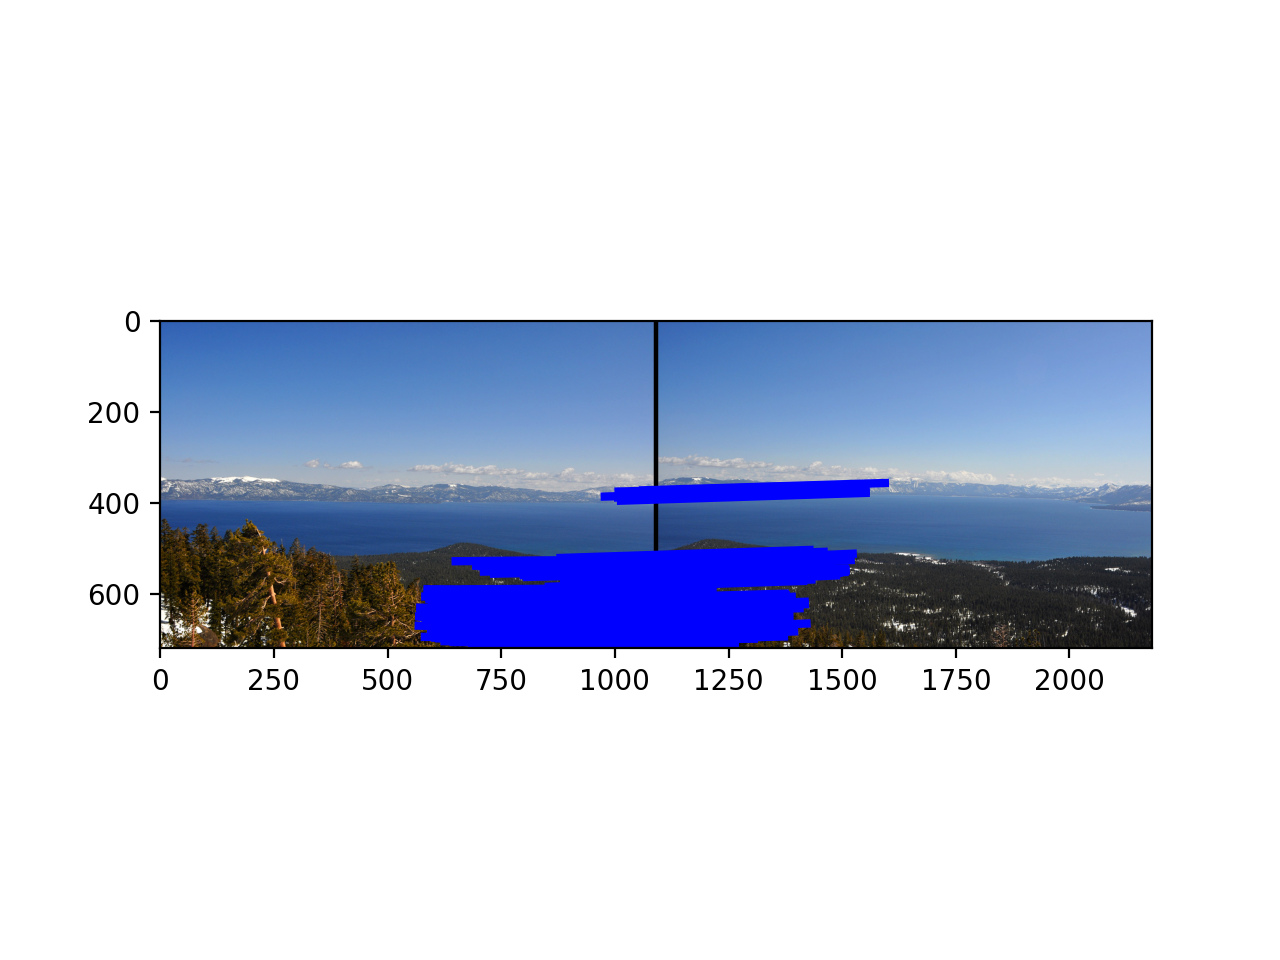
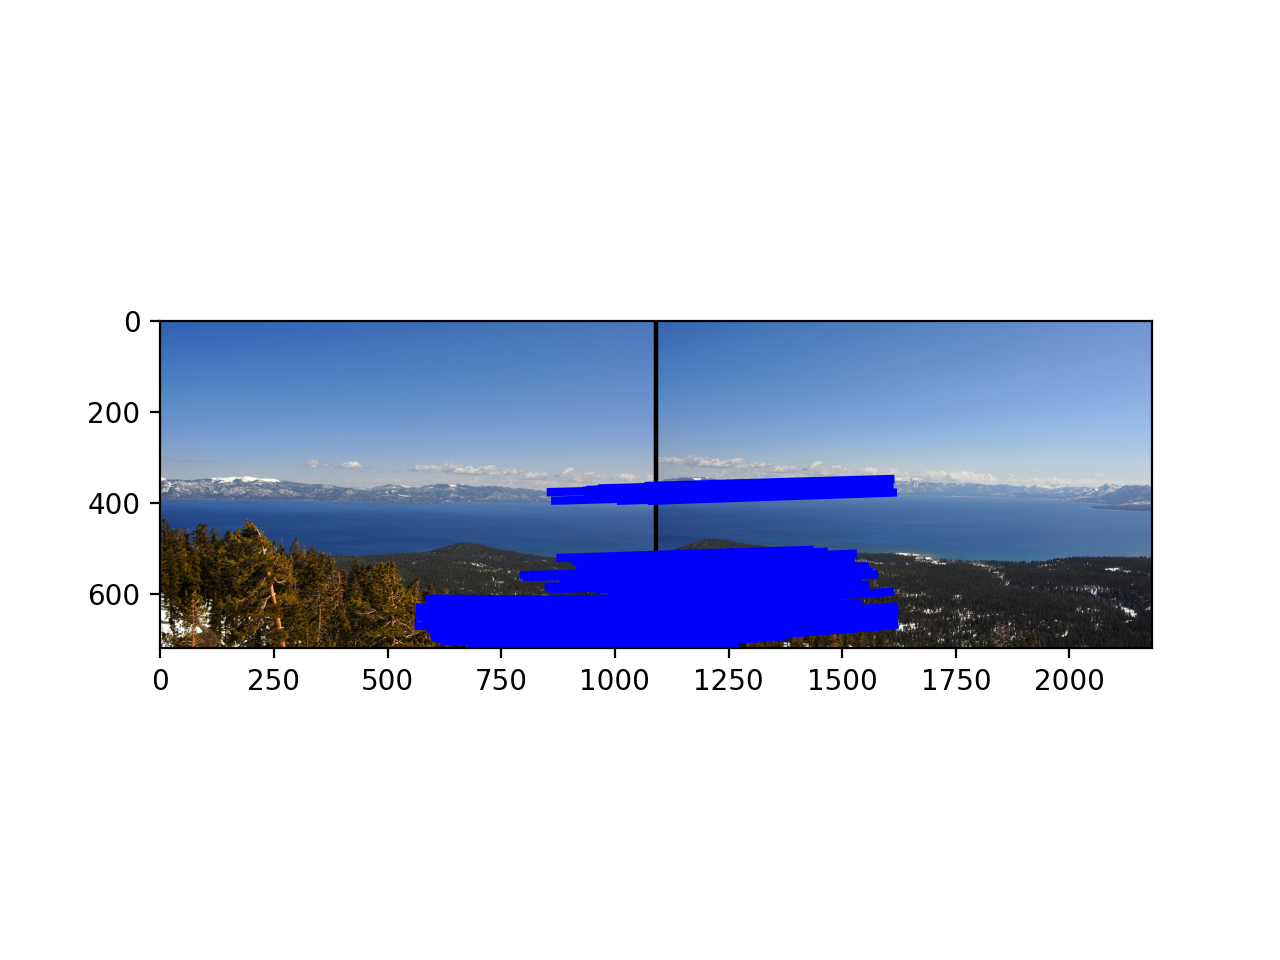
1b works

diff --git a/hw3/CS566_HW3_Python/runHw3.py b/hw3/CS566_HW3_Python/runHw3.py
@@ -207,23 +207,46 @@ def challenge1b():
 
 
 def challenge1c():
-    # Test image blending
-    fish = cv2.imread("escher_fish.png")
-    horse = cv2.imread("escher_horsemen.png")
+    # Blending demo: compare "overlay" vs weighted "blend"
+    import cv2
+    import numpy as np
 
-    # Assume masks precomputed or alpha channel
-    fish_mask = (fish[..., 2] > 0).astype(
-        np.uint8) if fish.shape[2] == 3 else np.ones(fish.shape[:2], np.uint8)
-    horse_mask = (horse[..., 2] > 0).astype(
-        np.uint8) if horse.shape[2] == 3 else np.ones(horse.shape[:2], np.uint8)
+    # Use files that exist in your repo
+    img1 = cv2.imread("mountain_left.png")
+    img2 = cv2.imread("mountain_center.png")
 
-    blended_result = blend_image_pair(  # TODO: Modify BlendImagPair.py code
-        fish, fish_mask, horse, horse_mask, mode="blend")
-    cv2.imwrite("blended_result.png", blended_result)
+    if img1 is None or img2 is None:
+        raise FileNotFoundError("Could not read mountain_left.png or mountain_center.png")
 
-    overlay_result = blend_image_pair(  # TODO: Modify BlendImagPair.py code
-        fish, fish_mask, horse, horse_mask, mode="overlay")
-    cv2.imwrite("overlay_result.png", overlay_result)
+    # Make sure same size (resize img2 to img1 if needed)
+    H1, W1 = img1.shape[:2]
+    H2, W2 = img2.shape[:2]
+    if (H1, W1) != (H2, W2):
+        img2 = cv2.resize(img2, (W1, H1), interpolation=cv2.INTER_LINEAR)
+
+    # Build simple overlapping masks:
+    # - img1 dominates the LEFT side
+    # - img2 dominates the RIGHT side
+    H, W = img1.shape[:2]
+    mask1 = np.zeros((H, W), dtype=np.uint8)
+    mask2 = np.zeros((H, W), dtype=np.uint8)
+
+    # 60% / 60% with 20% overlap in the middle
+    cut1 = int(0.6 * W)          # img1 active up to 60%
+    cut2 = int(0.4 * W)          # img2 active from 40%
+    mask1[:, :cut1] = 1
+    mask2[:, cut2:] = 1
+
+    # OVERLAY (hard seam)
+    out_overlay = blend_image_pair(img1, mask1, img2, mask2, mode="overlay")
+    cv2.imwrite("blend_overlay.png", out_overlay)
+
+    # BLEND (distance-transform weighted, smooth seam)
+    out_blend = blend_image_pair(img1, mask1, img2, mask2, mode="blend")
+    cv2.imwrite("blend_weighted.png", out_blend)
+
+    print("Saved: blend_overlay.png, blend_weighted.png")
+
 
 
 def challenge1d():
